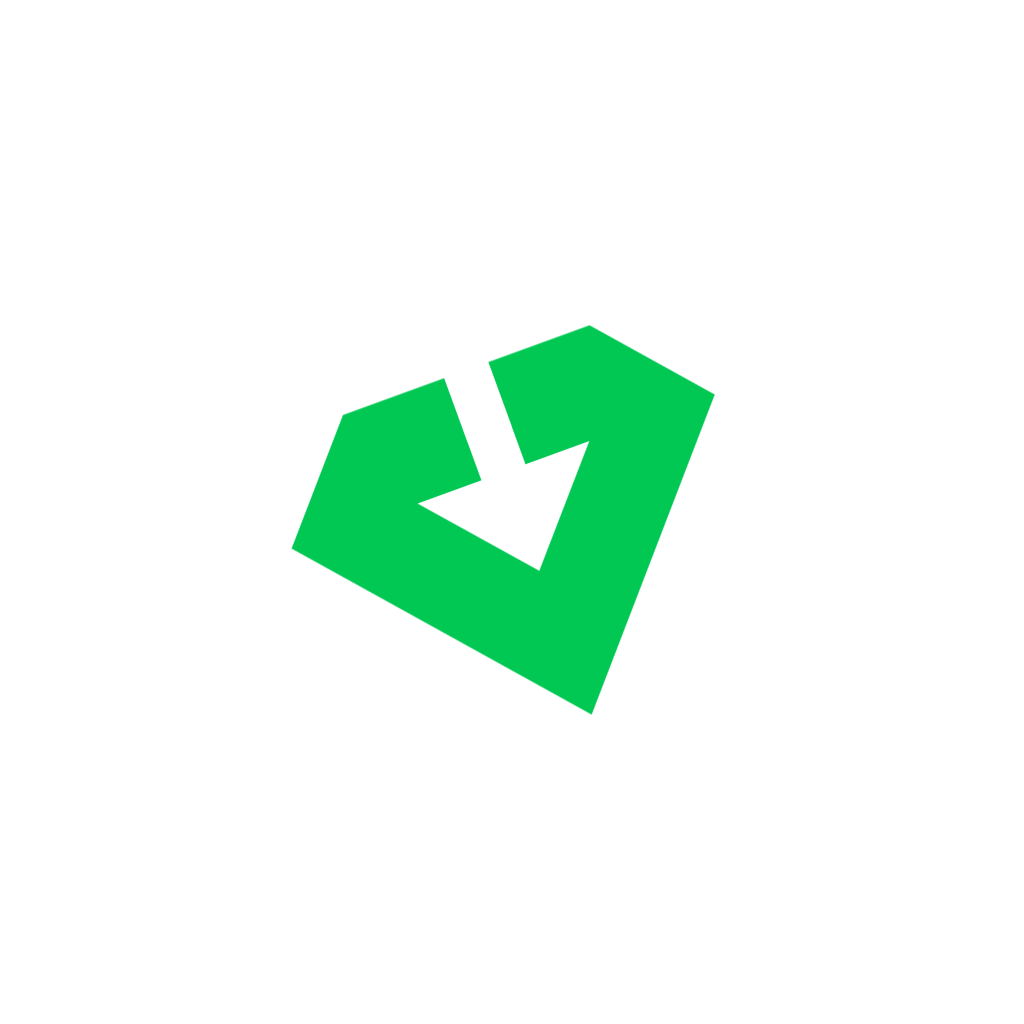
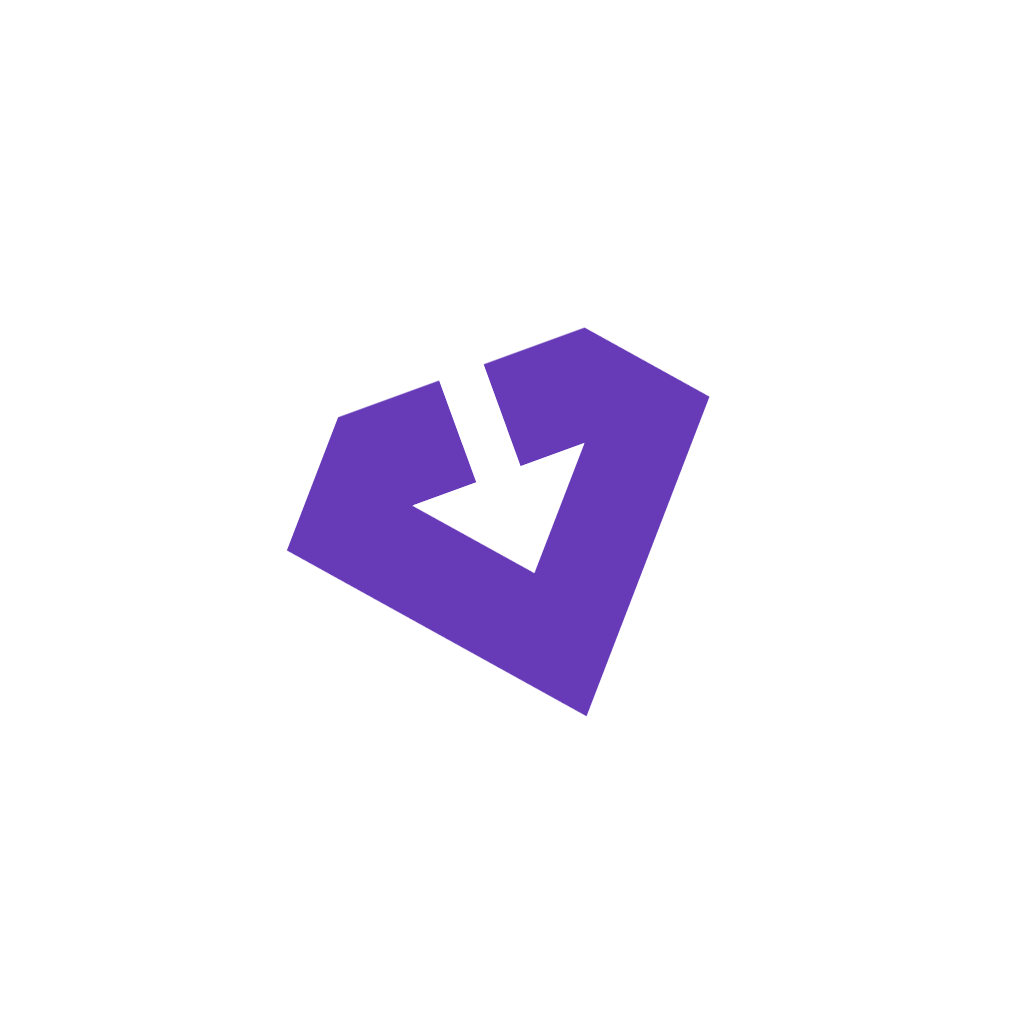
Changed theme colour

Changed region(s): [[0.2812, 0.3125, 0.7188, 0.7188]]

diff --git a/lib/services/apps_provider.dart b/lib/services/apps_provider.dart
@@ -160,7 +160,7 @@ class AppsProvider with ChangeNotifier {
 
   Future<App?> getUpdate(String appId) async {
     App? currentApp = apps[appId]!.app;
-    App newApp = await SourceService().getApp(currentApp!.url);
+    App newApp = await SourceService().getApp(currentApp.url);
     if (newApp.latestVersion != currentApp.latestVersion) {
       newApp.installedVersion = currentApp.installedVersion;
       await saveApp(newApp);
@@ -190,7 +190,7 @@ class AppsProvider with ChangeNotifier {
     List<String> appIds = apps.keys.toList();
     for (int i = 0; i < appIds.length; i++) {
       App? app = apps[appIds[i]]!.app;
-      if (app!.installedVersion != app.latestVersion) {
+      if (app.installedVersion != app.latestVersion) {
         await downloadAndInstallLatestApp(app.id);
       }
     }

diff --git a/lib/main.dart b/lib/main.dart
@@ -50,7 +50,7 @@ void main() async {
   ));
 }
 
-var defaultThemeColour = const Color(0xFF69F0AE);
+var defaultThemeColour = Colors.deepPurple;
 
 class MyApp extends StatelessWidget {
   const MyApp({super.key});
